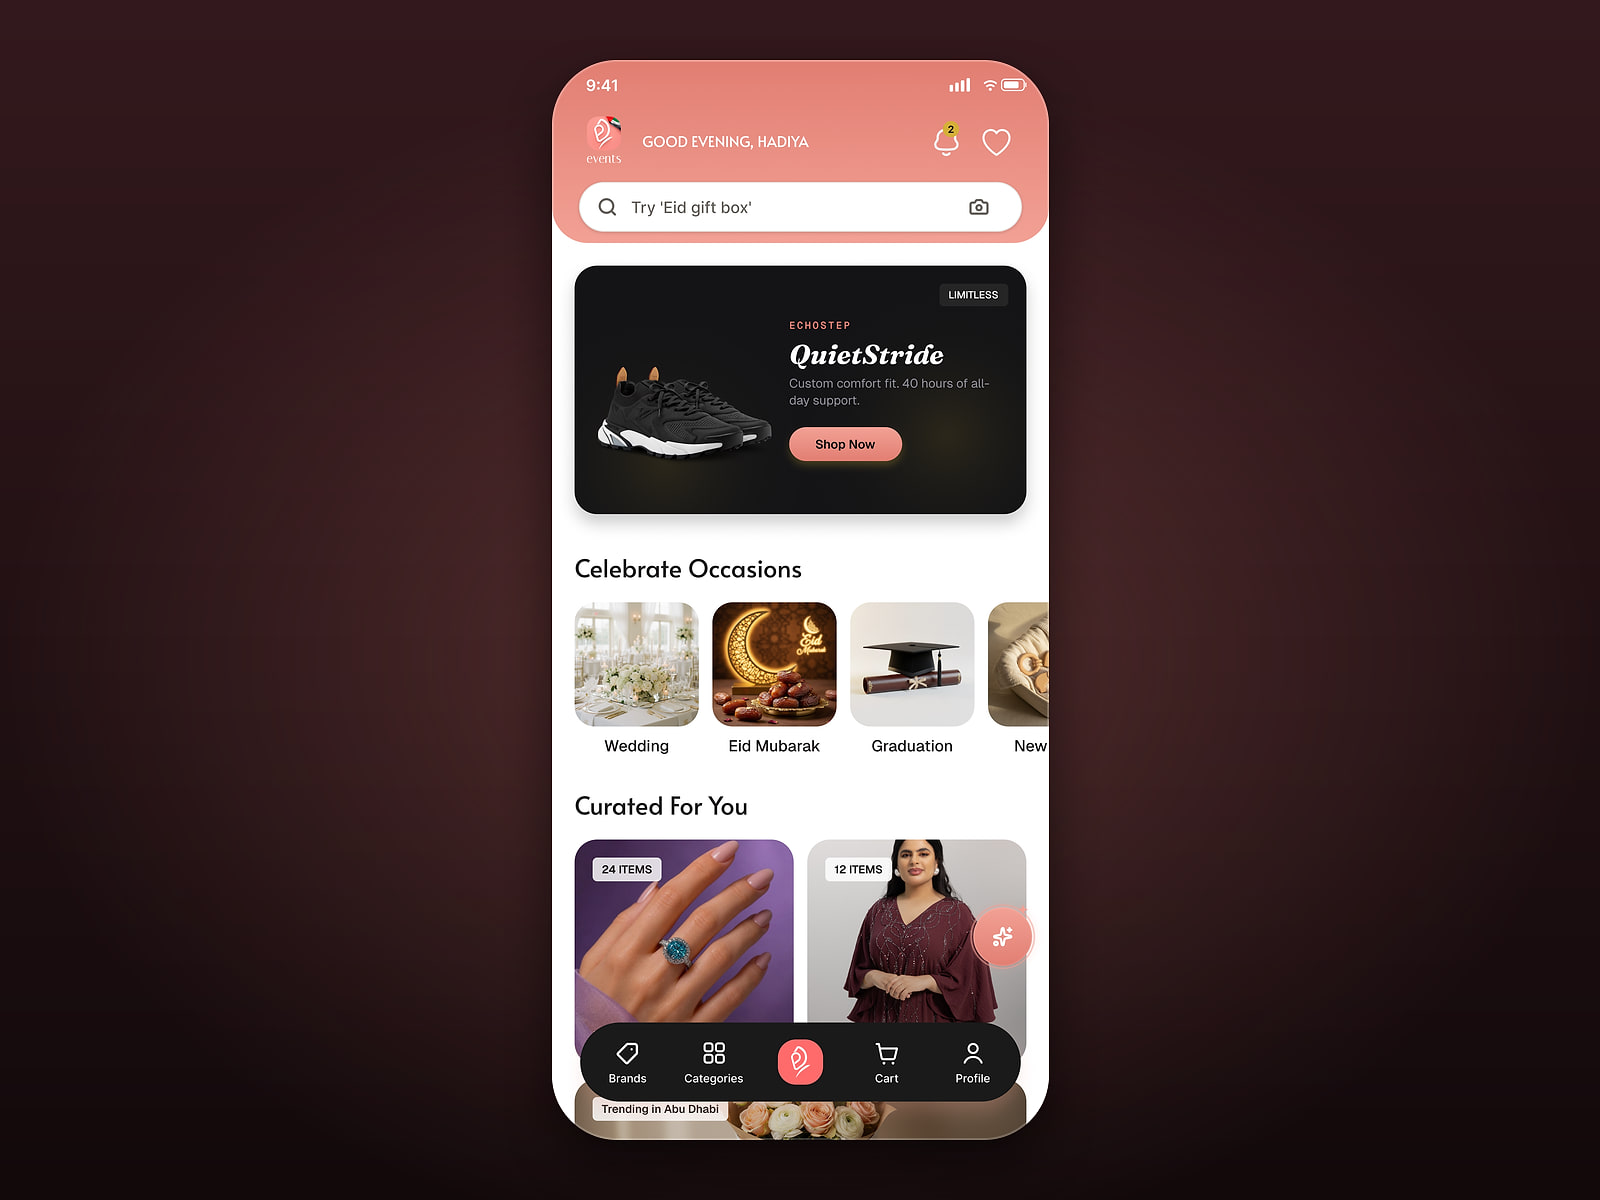
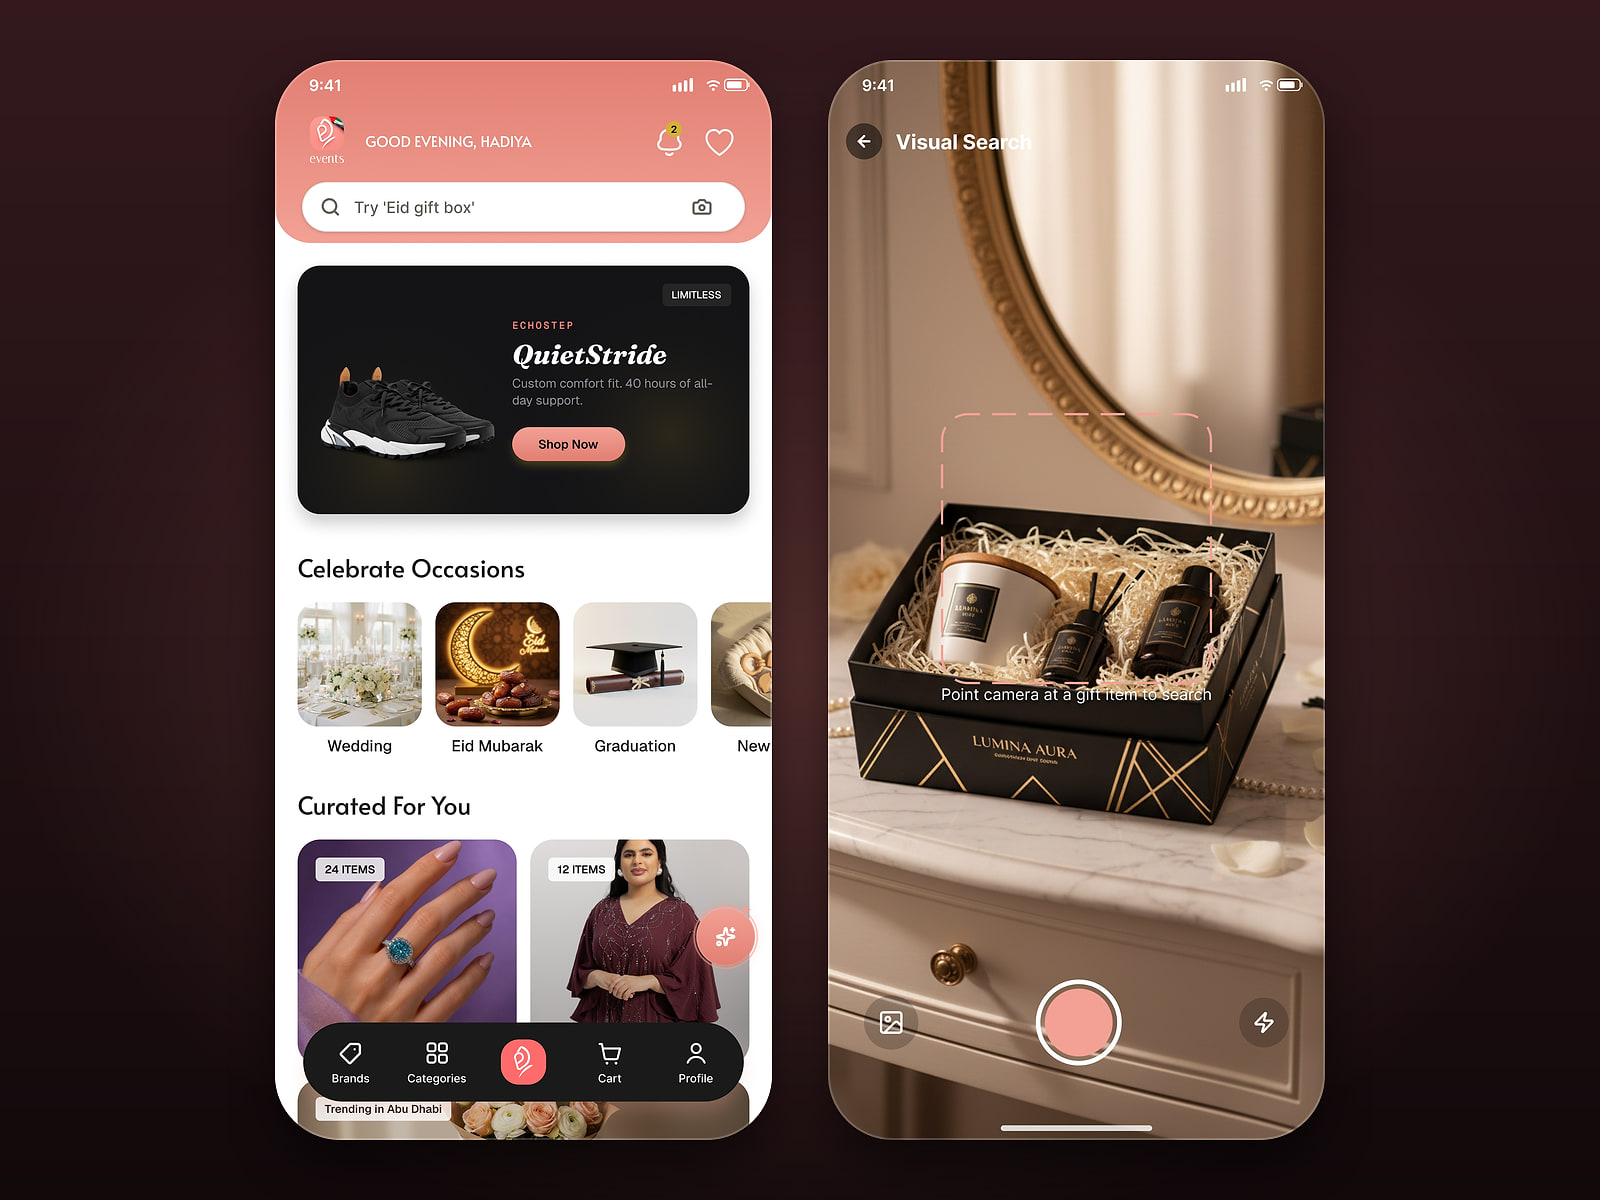
Add the visual search screen to The Events

diff --git a/src/data/site.ts b/src/data/site.ts
@@ -3,6 +3,7 @@ import type { ImageMetadata } from 'astro';
 import taggoRider from '../assets/work/taggo_rider_home.png';
 import taggoDriver from '../assets/work/taggo_captain_pickup.png';
 import theEvents from '../assets/work/theevents_home.png';
+import theEventsSearch from '../assets/work/theevents_visual_search.png';
 import gainz from '../assets/work/gainz_image.jpg';
 import amberDrive from '../assets/work/amber_drive.jpg';
 import osta from '../assets/work/osta1.png';
@@ -137,7 +138,10 @@ export const flagships: Flagship[] = [
     tags: ['Launch performance', 'Telr', 'Apple Pay', 'Google Pay', 'Forced updates'],
     card: { year: '2025 to now', platforms: 'Mobile', summary: 'Flowers and gifts across nine Gulf countries.', kinds: ['mobile'], image: theEventsCard },
     theme: 'events',
-    shots: [{ src: theEvents, alt: 'The Events app home: occasion picks, Celebrate Occasions and Curated For You', kind: 'phone' }],
+    shots: [
+      { src: theEvents, alt: 'The Events app home: occasion picks, Celebrate Occasions and Curated For You', kind: 'phone' },
+      { src: theEventsSearch, alt: 'The Events visual search: point the camera at a gift to find it in the store', kind: 'phone' },
+    ],
     constraint: 'The app took about 12 seconds to open on the same phone.',
     highlights: [
       'App launch from about 12 s to about 3 s on the same phone: lazy home sections and tabs, de-duplicated provider requests, a native splash, shimmer skeletons and pre-cached SVGs.',
